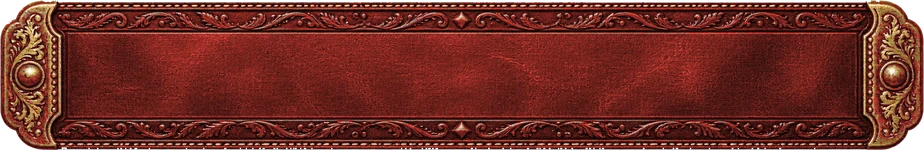
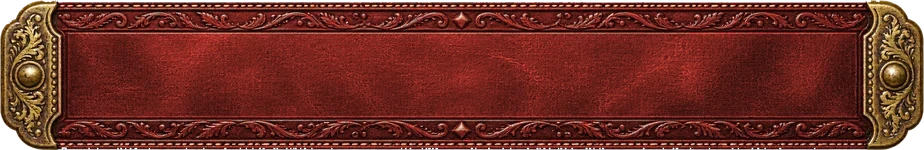
Cuero verde y rojo de los botones sin manchas, con los remates de latón dorados
Claude-Session: https://claude.ai/code/session_01Rf2QgT866AZEPAcFcL76YD

diff --git a/index.html b/index.html
@@ -18,8 +18,8 @@
 <link rel="preconnect" href="https://fonts.gstatic.com" crossorigin>
 <link href="https://fonts.googleapis.com/css2?family=Cinzel+Decorative:wght@400;700&family=IM+Fell+English:ital@0;1&family=IM+Fell+English+SC&family=Rye&family=Special+Elite&display=swap" rel="stylesheet">
 <title>Harrington Gunsmith · Saint Denis</title>
-<link rel="stylesheet" href="estilos-unificados.css?v=20261020-botones1" fetchpriority="high">
-<link rel="preload" href="app.js?v=20261020-botones1" as="script" fetchpriority="high">
+<link rel="stylesheet" href="estilos-unificados.css?v=20261020-botones2" fetchpriority="high">
+<link rel="preload" href="app.js?v=20261020-botones2" as="script" fetchpriority="high">
 <script data-head>/* la fachada de la entrada solo se adelanta si va a salir la entrada (si ya has entrado hoy en esta pestaña, no) */
 try{if(!sessionStorage.getItem('harrington_me_v1')){[['entrada-fachada.webp','(max-aspect-ratio: 23/20)'],['entrada-fachada-ancha.webp','(min-aspect-ratio: 23/20)']].forEach(function(x){var l=document.createElement('link');l.rel='preload';l.as='image';l.href=x[0];l.media=x[1];document.head.appendChild(l)})}}catch(e){}</script>
 <link rel="preconnect" href="https://fonts.gstatic.com" crossorigin>
@@ -771,7 +771,7 @@ try{if(!sessionStorage.getItem('harrington_me_v1')){[['entrada-fachada.webp','(m
 
 <script src="balance-exacto-core.js?v=20261017-aceite10"></script>
 <script src="auto-fabricacion.js?v=20261019-lazo1"></script>
-<script src="app.js?v=20261020-botones1"></script>
+<script src="app.js?v=20261020-botones2"></script>
 <script src="nominas-limite.js?v=20261018-nomina5"></script>
 <script src="inventario-jefes.js?v=20261019-inventario-visible1"></script>
 <script src="npc-almacenes.js?v=20261016-respuesta4"></script>
@@ -795,7 +795,7 @@ try{if(!sessionStorage.getItem('harrington_me_v1')){[['entrada-fachada.webp','(m
 <script src="rendimiento-interfaz.js?v=20261018-rendimiento2"></script>
 <script src="historial-progresivo.js?v=20261018-historial1"></script>
 <script src="vistoso.js?v=20261019-vistoso2"></script>
-<script src="vistoso2.js?v=20261020-botones1"></script>
+<script src="vistoso2.js?v=20261020-botones2"></script>
 <script defer src="sincronizacion-resiliente.js?v=20261017-estabilidad1"></script>
 </body>
 </html>

diff --git a/estilos-unificados.css b/estilos-unificados.css
@@ -3168,7 +3168,7 @@ html.lite .net-bar .poste{animation:none}
 /* ---------- cuero rojo: peligro ---------- */
 :is(.enc-actions,.actions,.receipt-actions,.confirm-actions,.emp-btns,.dir-form,.enc-sec) button:is(.warn,.danger),.enc-head button.danger,.clock-btn.out,.confirm-actions .danger{
  border-style:solid!important;border-radius:0!important;background:none!important;box-shadow:none!important;
- border-width:9px 20px!important;border-image:url(boton-cuero-rojo.webp) 36 56 36 56 fill / 9px 20px round stretch!important;
+ border-width:9px 20px!important;border-image:url(boton-cuero-rojo.webp?v=2) 36 56 36 56 fill / 9px 20px round stretch!important;
  color:#ffe6c8!important;text-shadow:0 1px 1px #000!important;padding:6px 4px!important;min-height:42px;filter:drop-shadow(0 3px 3px #000a)}
 .enc-head button.danger::after,.enc-head button.danger::before{display:none!important}
 
@@ -3181,7 +3181,7 @@ html.lite .net-bar .poste{animation:none}
 
 /* ---------- cuero verde: la botonera de gestión ---------- */
 .management-nav .clock-link.enc-btn{
- border-width:12px 20px!important;border-image:url(boton-cuero-verde.webp) 36 56 36 56 fill / 12px 20px round stretch!important;
+ border-width:12px 20px!important;border-image:url(boton-cuero-verde.webp?v=2) 36 56 36 56 fill / 12px 20px round stretch!important;
  color:#f6dc8c!important;text-shadow:0 1px 1px #000,0 0 6px #0009!important;padding:6px 2px!important}
 .management-nav{background:none!important;box-shadow:none!important}
 .management-nav .clock-link.enc-btn svg{filter:drop-shadow(0 1px 1px #000)}

diff --git a/botones-imagen.css b/botones-imagen.css
@@ -35,7 +35,7 @@
 /* ---------- cuero rojo: peligro ---------- */
 :is(.enc-actions,.actions,.receipt-actions,.confirm-actions,.emp-btns,.dir-form,.enc-sec) button:is(.warn,.danger),.enc-head button.danger,.clock-btn.out,.confirm-actions .danger{
  border-style:solid!important;border-radius:0!important;background:none!important;box-shadow:none!important;
- border-width:9px 20px!important;border-image:url(boton-cuero-rojo.webp) 36 56 36 56 fill / 9px 20px round stretch!important;
+ border-width:9px 20px!important;border-image:url(boton-cuero-rojo.webp?v=2) 36 56 36 56 fill / 9px 20px round stretch!important;
  color:#ffe6c8!important;text-shadow:0 1px 1px #000!important;padding:6px 4px!important;min-height:42px;filter:drop-shadow(0 3px 3px #000a)}
 .enc-head button.danger::after,.enc-head button.danger::before{display:none!important}
 
@@ -48,7 +48,7 @@
 
 /* ---------- cuero verde: la botonera de gestión ---------- */
 .management-nav .clock-link.enc-btn{
- border-width:12px 20px!important;border-image:url(boton-cuero-verde.webp) 36 56 36 56 fill / 12px 20px round stretch!important;
+ border-width:12px 20px!important;border-image:url(boton-cuero-verde.webp?v=2) 36 56 36 56 fill / 12px 20px round stretch!important;
  color:#f6dc8c!important;text-shadow:0 1px 1px #000,0 0 6px #0009!important;padding:6px 2px!important}
 .management-nav{background:none!important;box-shadow:none!important}
 .management-nav .clock-link.enc-btn svg{filter:drop-shadow(0 1px 1px #000)}

diff --git a/sw.js b/sw.js
@@ -1,6 +1,6 @@
 /* Caché acotada al sitio. Datos autenticados y servicios externos siempre por red. */
 const PREFIX='harrington-static:'+new URL(self.registration.scope).pathname+':';
-const CACHE=PREFIX+'20261020-botones1';
+const CACHE=PREFIX+'20261020-botones2';
 const LEGACY=new Set(['harrington-acceso-discord-20261015-2']);
 self.addEventListener('install',e=>{e.waitUntil(self.skipWaiting())});
 self.addEventListener('activate',e=>{e.waitUntil((async()=>{
